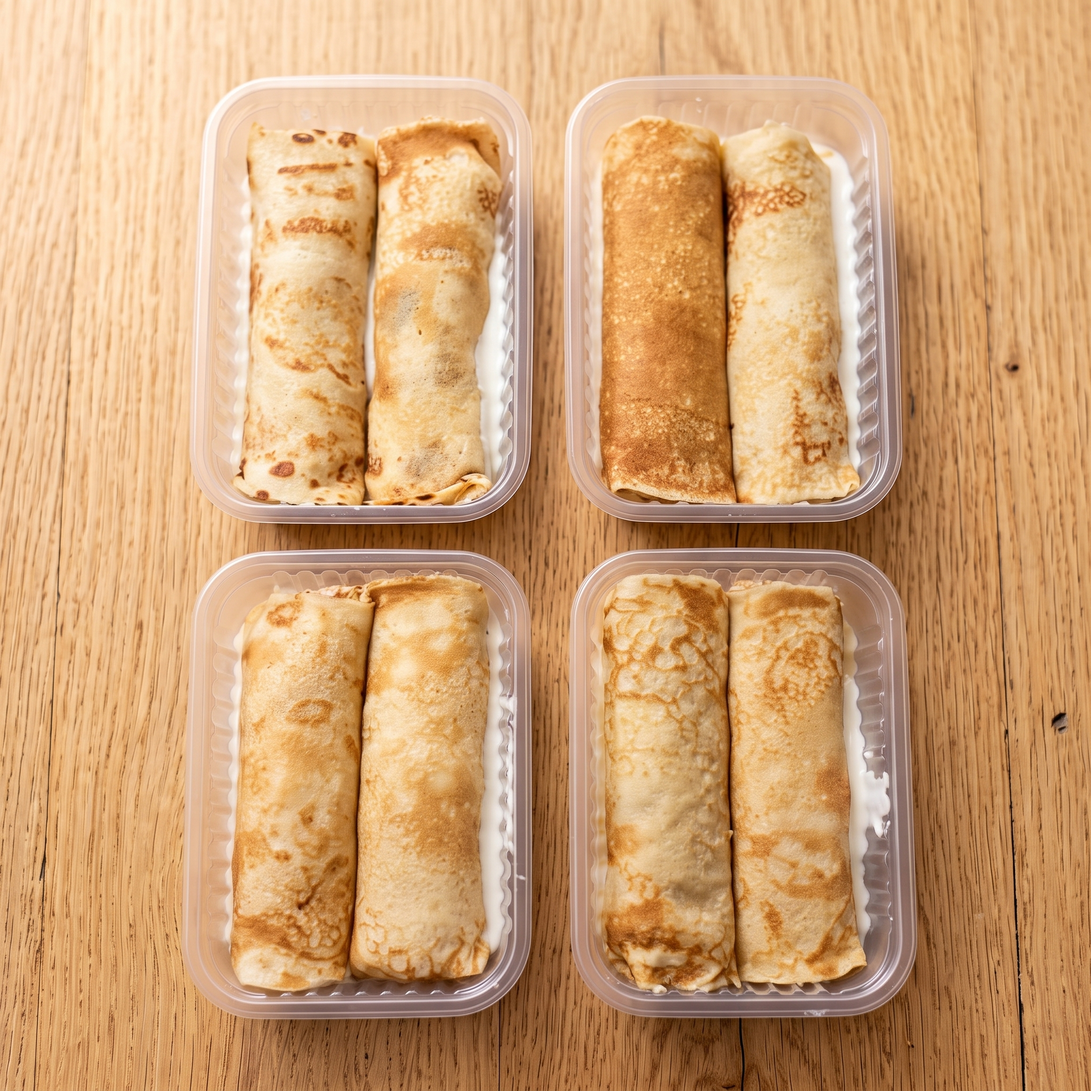
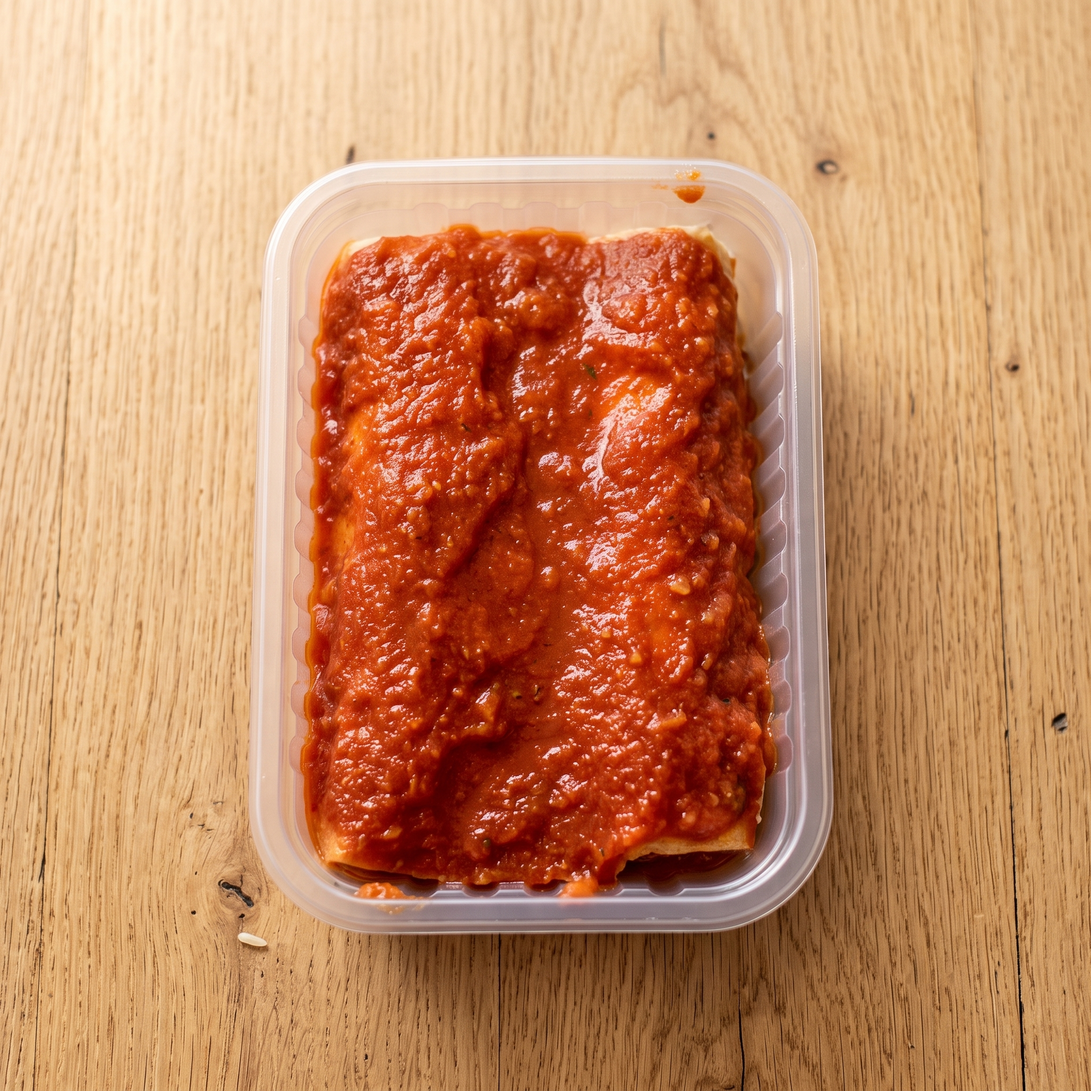
Foto atualizada

diff --git a/index.html b/index.html
@@ -473,7 +473,7 @@
               </svg>
             </span>
             <h3 class="step-card__title">Aguarde o tempo indicado</h3>
-            <p class="step-card__text">O tempo pode variar conforme a marmitam, confira a indicação na embalagem.</p>
+            <p class="step-card__text">O tempo pode variar conforme a marmita, confira a indicação na embalagem.</p>
           </article>
 
           <article class="step-card">
